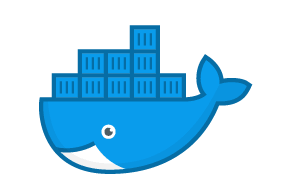
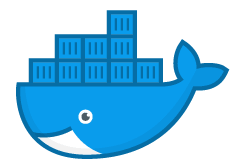
Set image property as contain

Changed region(s): [[0.0586, 0.0599, 0.9665, 0.9581]]

diff --git a/src/views/Home.vue b/src/views/Home.vue
@@ -76,41 +76,41 @@ export default {
       popularList: [
         {
           command: "AFK ",
-          description: "Away From Keyboard"
+          description: "Away From Keyboard",
         },
         {
           command: "BRB ",
-          expanded_version: "Be Right Back"
+          expanded_version: "Be Right Back",
         },
         {
           command: "PHAT ",
-          description: "Pretty Hot And Tempting"
+          description: "Pretty Hot And Tempting",
         },
         {
           command: "TTYL ",
-          description: "Talk To You Later"
+          description: "Talk To You Later",
         },
         {
           command: "DIY ",
-          description: "Do It Yourself"
+          description: "Do It Yourself",
         },
         {
           command: "DND ",
-          description: "Do Not Disturb"
+          description: "Do Not Disturb",
         },
         {
           command: "WFH",
-          description: "Work From Home"
+          description: "Work From Home",
         },
         {
           command: "YOLO",
-          description: "You Only Live Once"
+          description: "You Only Live Once",
         },
         {
           command: "FOMO",
-          description: "Fear Of Missing Out"
-        }
-      ]
+          description: "Fear Of Missing Out",
+        },
+      ],
     };
   },
   created() {
@@ -124,14 +124,14 @@ export default {
         return [];
       }
       return this.acronymList
-        .filter(obj => {
+        .filter((obj) => {
           return obj.id.toLowerCase().includes(this.search.toLowerCase());
         })
         .sort((a, b) => (a.id > b.id ? 1 : -1));
     },
     itemNotFound() {
       return this.filteredList.length == 0;
-    }
+    },
   },
   methods: {
     homeItemSelected(value) {
@@ -144,14 +144,14 @@ export default {
     openGithub() {
       open("https://github.com/mkfeuhrer/devsheets");
       //   window.location.href = "https://github.com/mkfeuhrer/devsheets";
-    }
+    },
   },
   components: {
     AppHeader,
     AppFooter,
     Section,
-    OptionButton
-  }
+    OptionButton,
+  },
 };
 </script>
 

diff --git a/src/components/OptionButton.vue b/src/components/OptionButton.vue
@@ -1,7 +1,7 @@
 <template>
   <div class="buttons">
     <div>
-      <img :src="getImage()" alt width="150" height="150" />
+      <img :src="getImage()" alt width="150" height="150" style="object-fit:contain;" />
     </div>
     <p class="heading">{{capatalize(this.data.id)}}</p>
     <p>{{shortenDescription(this.data.description)}}</p>
@@ -51,7 +51,7 @@ export default {
   width: 300px;
   height: auto;
   border: 2px solid gray;
-  margin: 10px;
+  margin: 20px 10px;
   padding: 10px;
   border-radius: 20px;
   display: flex;
